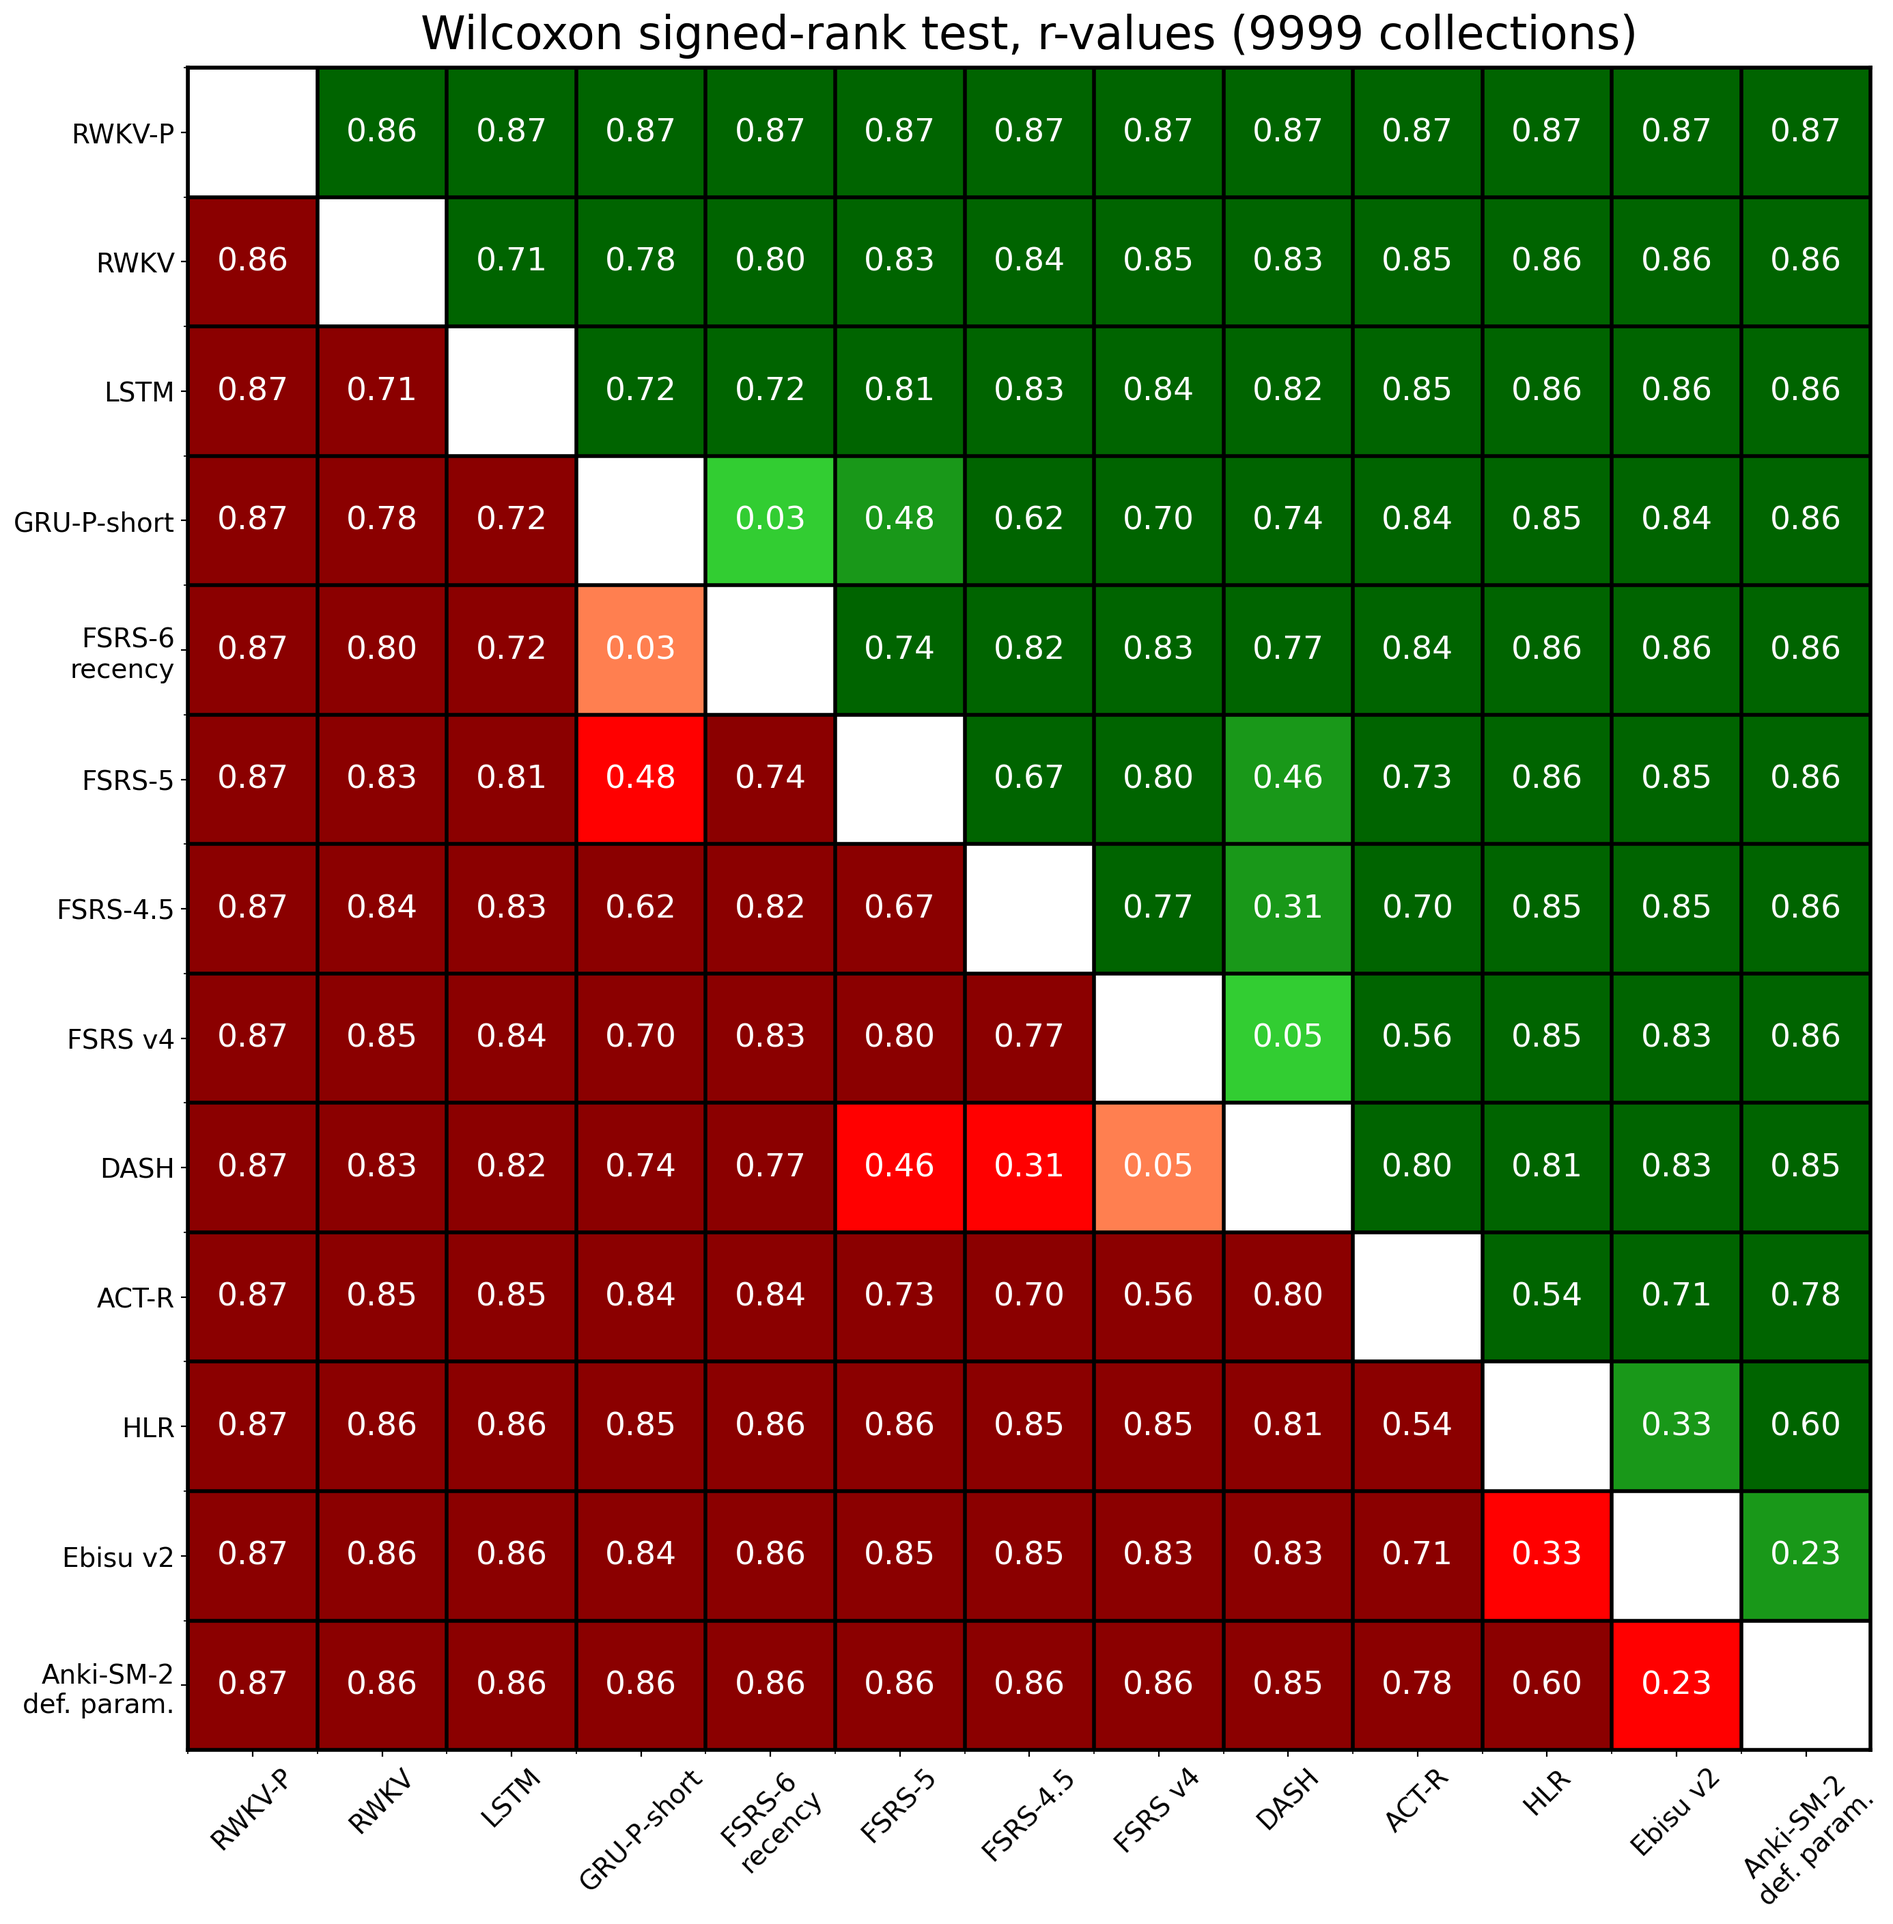
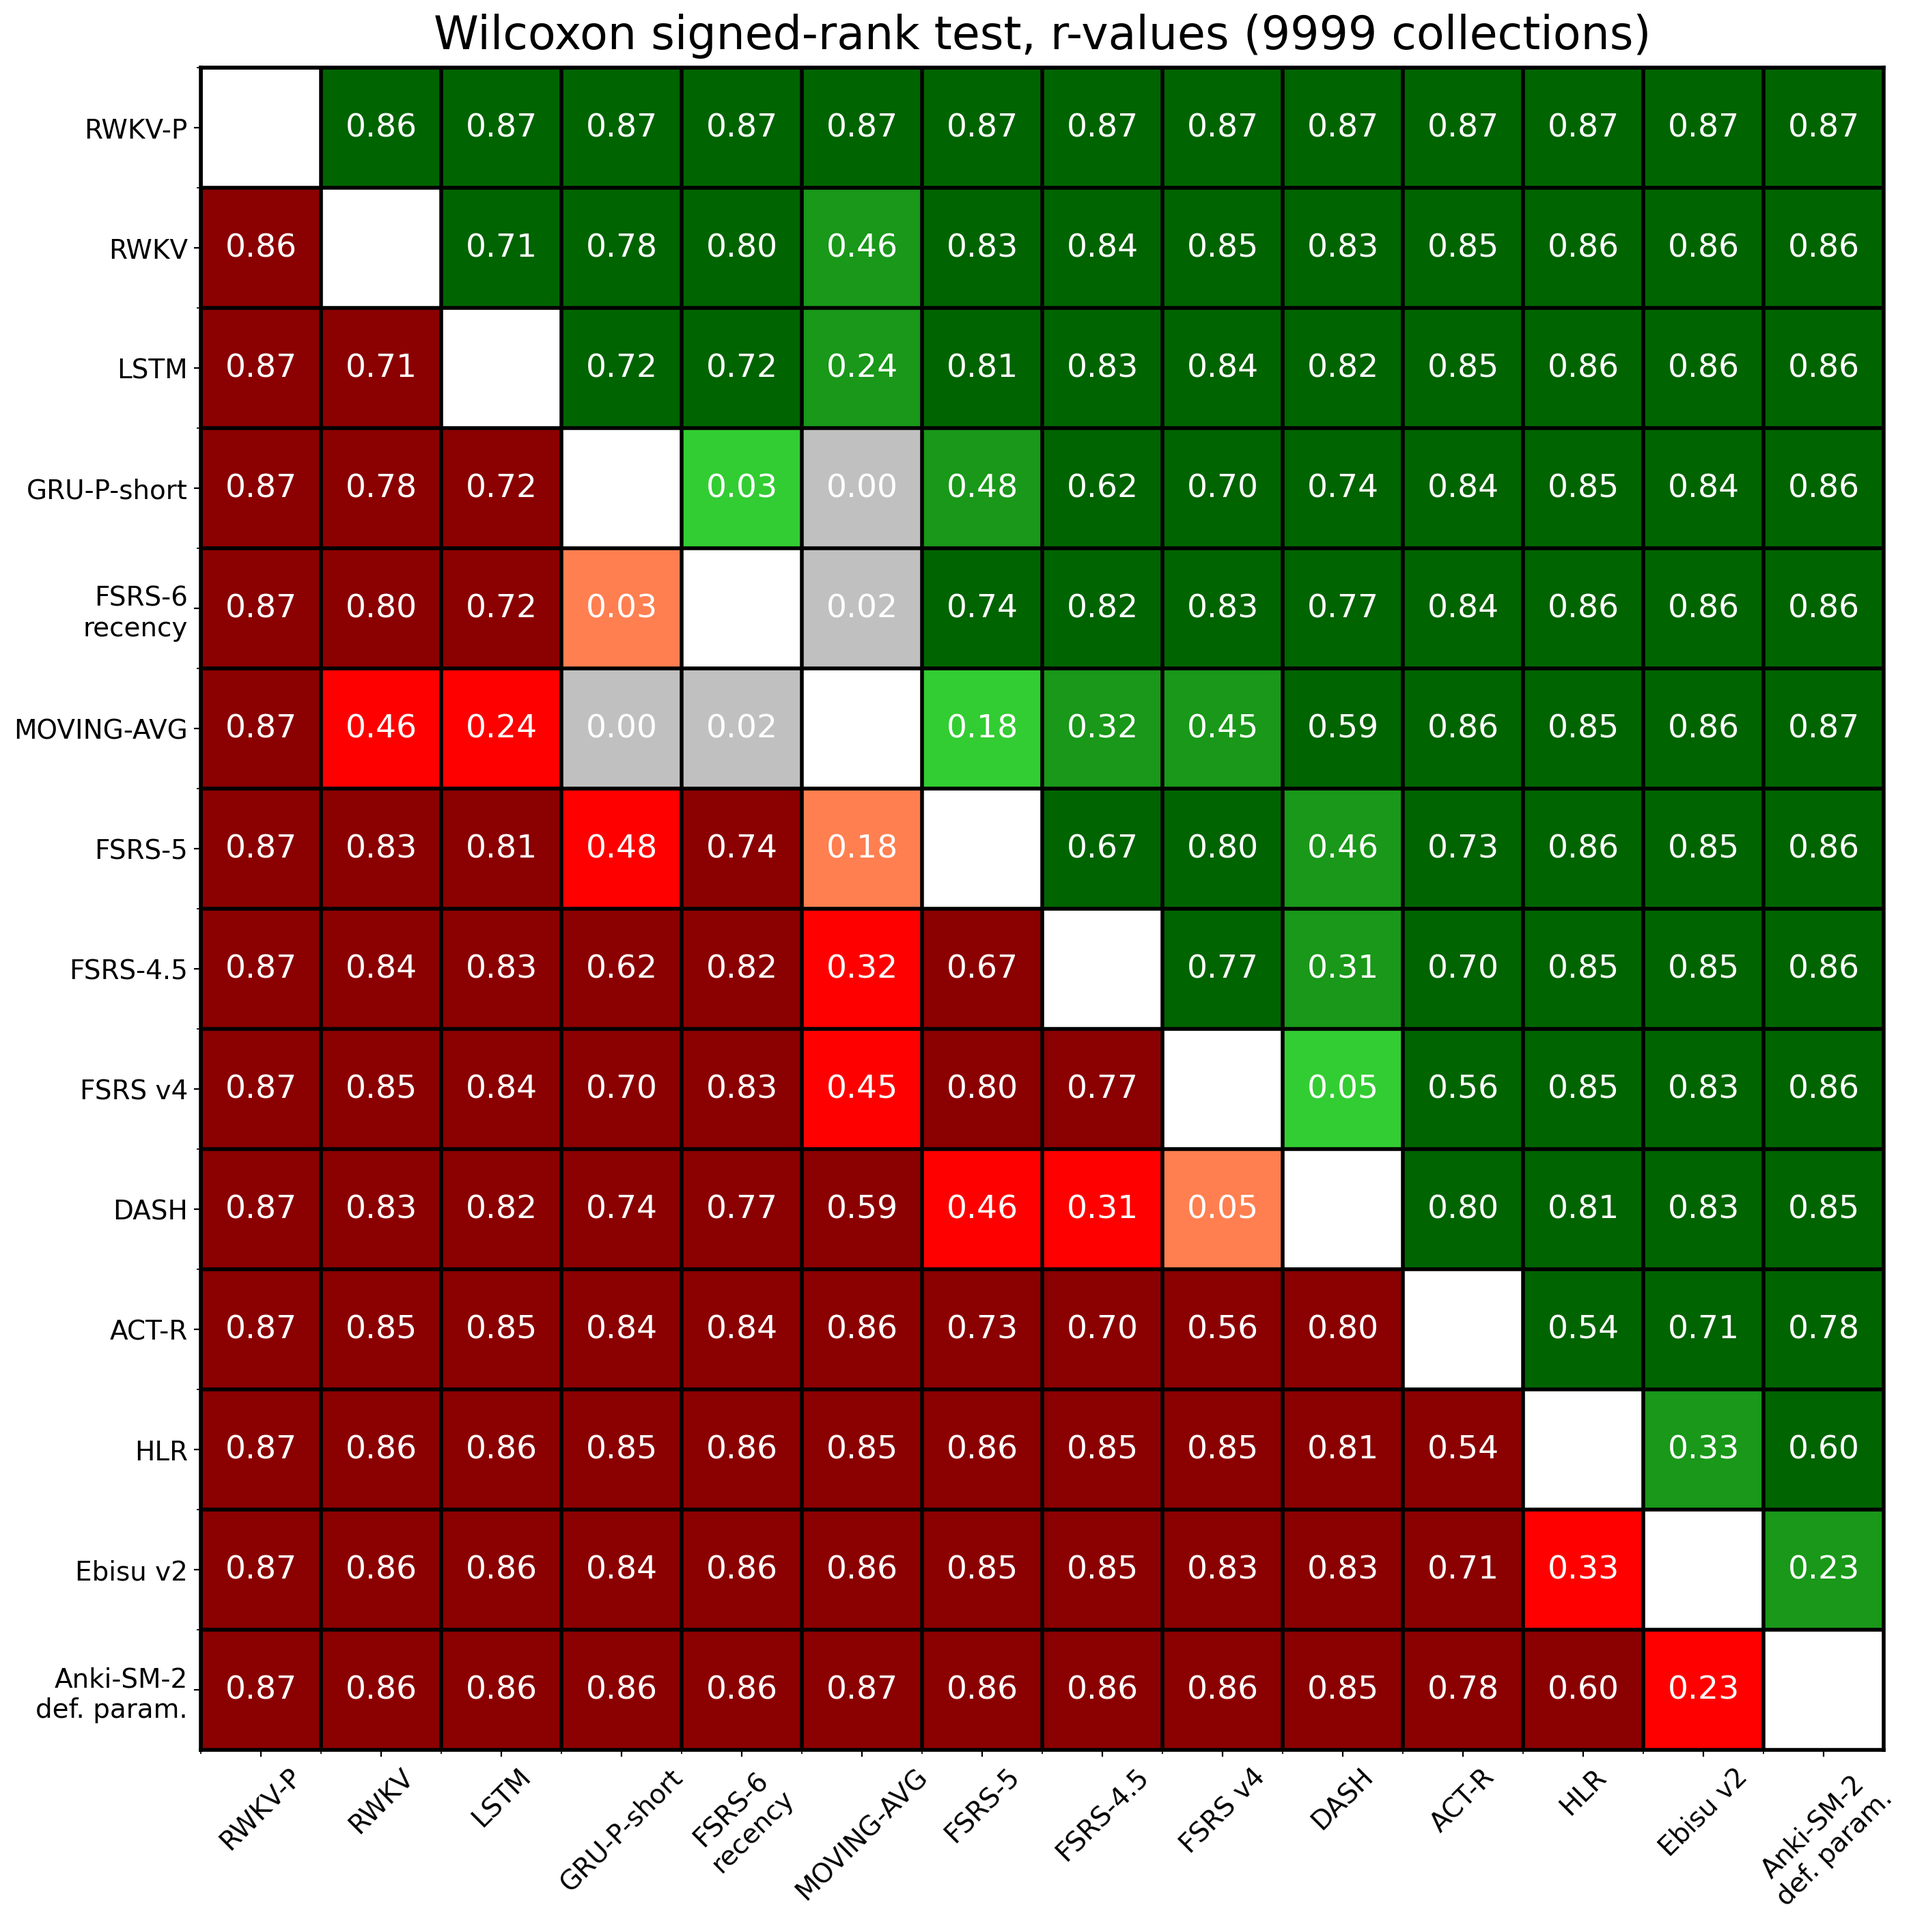
update metrics table

diff --git a/evaluate.py b/evaluate.py
@@ -106,10 +106,11 @@ if __name__ == "__main__":
             ("RWKV-P", 2762884, ""),
             ("RWKV", 2762884, ""),
             ("LSTM-short-secs-equalize_test_with_non_secs", 8869, "FIL, G, SR, AT"),
-            ("GRU-P-short", 297, "IL, G, SR"),
+            ("MOVING-AVG", 0, "---"),
             ("FSRS-6-recency", 21, "IL, G, SR"),
             ("FSRS-rs", 21, "IL, G, SR"),
             ("FSRS-6", 21, "IL, G, SR"),
+            ("GRU-P-short", 297, "IL, G, SR"),
             ("FSRS-6-preset", 21, "IL, G, SR"),
             ("GRU-P", 297, "IL, G"),
             ("FSRS-6-binary", 17, "IL, G, SR"),
@@ -144,8 +145,8 @@ if __name__ == "__main__":
         if not args.secs
         else [
             (dev_mode_name, None, None),
-            ("GRU-P-short-secs", 297, "FIL, G, SR"),
             ("MOVING-AVG-short-secs", 0, "---"),
+            ("GRU-P-short-secs", 297, "FIL, G, SR"),
             ("DASH[MCM]-short-secs", 9, "FIL, G, SR"),
             ("DASH-short-secs", 9, "FIL, G, SR"),
             ("DASH[ACT-R]-short-secs", 5, "FIL, G, SR"),
@@ -214,7 +215,7 @@ if __name__ == "__main__":
                 # print(f"parameters: {np.std(parameters, axis=0).round(2).tolist()}\n")
 
     else:
-        for scale in ("reviews", "users"):
+        for scale in ("users", "reviews"):
             print(f"Weighted by number of {scale}\n")
             print("| Model | #Params | LogLoss | RMSE(bins) | AUC | Input features |")
             print("| --- | --- | --- | --- | --- | --- |")

diff --git a/significance_table_small.py b/significance_table_small.py
@@ -58,6 +58,7 @@ if __name__ == "__main__":
         "LSTM-short-secs-equalize_test_with_non_secs",
         "GRU-P-short",
         "FSRS-6-recency",
+        "MOVING-AVG",
         "FSRS-5",
         "FSRS-4.5",
         "FSRSv4",

diff --git a/superiority_small.py b/superiority_small.py
@@ -16,6 +16,7 @@ if __name__ == "__main__":
         "LSTM-short-secs-equalize_test_with_non_secs",
         "GRU-P-short",
         "FSRS-6-recency",
+        "MOVING-AVG",
         "FSRS-5",
         "FSRS-4.5",
         "FSRSv4",

diff --git a/README.md b/README.md
@@ -98,53 +98,14 @@ For the sake of brevity, the following abbreviations are used in the "Input feat
 
 **AT** = **a**nswer **t**ime (duration of the review), in milliseconds
 
-### Weighted by the number of reviews
-
-| Algorithm | Parameters | Log Loss↓ | RMSE (bins)↓ | AUC↑ | Input features |
-| --- | --- | --- | --- | --- | --- |
-| **RWKV-P** | 2762884 [(0)](#param-note) | **0.2709±0.0074** | 0.01450±0.00037 | **0.8233±0.0040** | [Yes](#features-note) |
-| RWKV | 2762884 [(0)](#param-note) | 0.2991±0.0075 | 0.0341±0.0012 | 0.7699±0.0032 | [Yes](#features-note) |
-| LSTM | 8869 | 0.3115±0.0079 | 0.0354±0.0011 | 0.7332±0.0038 | FIL, G, SR, AT |
-| GRU-P-short | 297 | 0.3195±0.0080 | 0.0421±0.0013 | 0.7096±0.0047 | IL, G, SR|
-| FSRS-6 recency | 21 | 0.3197±0.0080 | 0.0435±0.0012 | 0.7088±0.0042 | IL, G, SR |
-| FSRS-rs | 21 | 0.3197±0.0080 | 0.0435±0.0012 | 0.7090±0.0042 | IL, G, SR |
-| FSRS-6 | 21 | 0.3214±0.0081 | 0.0462±0.0013 | 0.7060±0.0041 | IL, G, SR |
-| FSRS-6 preset | 21 | 0.3215±0.0080 | 0.0454±0.0013 | 0.7067±0.0041 | IL, G, SR |
-| GRU-P | 297 | 0.3251±0.0082 | 0.0433±0.0013 | 0.6991±0.0046 | IL, G |
-| FSRS-6 binary | 17 | 0.3256±0.0082 | 0.0484±0.0014 | 0.6866±0.0046 | IL, G, SR |
-| FSRS-5 | 19 | 0.3273±0.0082 | 0.0518±0.0016 | 0.7025±0.0041 | IL, G, SR |
-| FSRS-6 deck | 21 | 0.3277±0.0082 | 0.0509±0.0016 | 0.6974±0.0042 | IL, G, SR |
-| FSRS-4.5 | 17 | 0.3324±0.0084 | 0.0536±0.0016 | 0.6918±0.0041 | IL, G |
-| FSRS-6 pretrain | 4 | 0.3327±0.0079 | 0.0632±0.0017 | 0.6945±0.0040 | IL, G, SR |
-| FSRS v4 | 17 | 0.3378±0.0086 | 0.0582±0.0017 | 0.6891±0.0043 | IL, G |
-| FSRS-6 default param. | 0 | 0.3393±0.0082 | 0.0716±0.0020 | 0.6891±0.0041 | IL, G, SR |
-| DASH-short | 9 | 0.3395±0.0084 | 0.0660±0.0018 | 0.6355±0.0049 | IL, G, SR |
-| DASH | 9 | 0.3398±0.0083 | 0.0627±0.0016 | 0.6386±0.0047 | IL, G |
-| DASH[MCM] | 9 | 0.3399±0.0083 | 0.0644±0.0017 | 0.6398±0.0052 | IL, G |
-| DASH[ACT-R] | 5 | 0.3428±0.0084 | 0.0670±0.0019 | 0.6294±0.0049 | IL, G |
-| GRU | 39 | 0.3430±0.0086 | 0.0631±0.0017 | 0.6726±0.0039 | IL, G |
-| ACT-R | 5 | 0.3623±0.0092 | 0.0864±0.0024 | 0.5345±0.0054 | IL |
-| AVG | 0 | 0.3630±0.0091 | 0.0876±0.0026 | 0.5085±0.0049 | --- |
-| FSRS v3 | 13 | 0.3709±0.0099 | 0.0729±0.0022 | 0.6666±0.0045 | IL, G |
-| FSRS v2 | 14 | 0.377±0.010 | 0.0687±0.0022 | 0.6669±0.0048 | IL, G |
-| FSRS v1 | 7 | 0.397±0.011 | 0.0864±0.0025 | 0.6333±0.0046 | IL, G |
-| Anki-SM-2 trainable | 7 | 0.407±0.011 | 0.0941±0.0032 | 0.6169±0.0044 | IL, G |
-| HLR | 3 | 0.415±0.012 | 0.1052±0.0031 | 0.6333±0.0050 | IL, G |
-| HLR-short | 3 | 0.436±0.013 | 0.1160±0.0036 | 0.6149±0.0064 | IL, G, SR |
-| SM-2 trainable | 6 | 0.444±0.012 | 0.1193±0.0034 | 0.5994±0.0049 | IL, G |
-| Ebisu v2 | 0 | 0.457±0.012 | 0.1582±0.0039 | 0.5942±0.0050 | IL, G |
-| Anki-SM-2 | 0 | 0.490±0.015 | 0.1278±0.0036 | 0.5973±0.0054 | IL, G |
-| SM-2-short | 0 | 0.511±0.016 | 0.1278±0.0038 | 0.5929±0.0065 | IL, G, SR |
-| SM-2 | 0 | 0.547±0.017 | 0.1484±0.0042 | 0.6005±0.0051 | IL, G |
-| **RMSE-BINS-EXPLOIT** | 0 | 4.48±0.13 | **0.00623±0.00021** | 0.6380±0.0040 | IL, G |
-
-### Unweighted
+### Without same-day reviews
 
 | Algorithm | Parameters | Log Loss↓ | RMSE (bins)↓ | AUC↑ | Input features |
 | --- | --- | --- | --- | --- | --- |
 | **RWKV-P** | 2762884 | **0.2773±0.0036** | 0.02502±0.00038 | **0.8329±0.0017** | [Yes](#features-note) |
 | RWKV | 2762884 | 0.3193±0.0039 | 0.0540±0.0010 | 0.7683±0.0020 | [Yes](#features-note) |
 | LSTM | 8869 | 0.3332±0.0041 | 0.05378±0.00096 | 0.7329±0.0020 | FIL, G, SR, AT |
+| MOVING-AVG | 0 | 0.3369±0.0042 | 0.05915±0.00082 | 0.7001±0.0026 | --- |
 | FSRS-6 recency | 21 | 0.3439±0.0042 | 0.0629±0.0010 | 0.7075±0.0022 | IL, G, SR |
 | FSRS-rs | 21 | 0.3437±0.0042 | 0.0628±0.0010 | 0.7080±0.0022 | IL, G, SR |
 | FSRS-6 | 21 | 0.3456±0.0042 | 0.0653±0.0011 | 0.7051±0.0023 | IL, G, SR |
@@ -178,9 +139,28 @@ For the sake of brevity, the following abbreviations are used in the "Input feat
 | SM-2 | 0 | 0.722±0.017 | 0.2031±0.0031 | 0.6026±0.0025 | IL, G |
 | **RMSE-BINS-EXPLOIT** | 0 | 4.608±0.067 | **0.01350±0.00027** | 0.6548±0.0022 | IL, G |
 
-Averages weighted by the number of reviews are more representative of "best case" performance when plenty of data is available. Since almost all algorithms perform better when there's a lot of data to learn from, weighting by n(reviews) biases the average towards lower values.
+### With same-day reviews
 
-Unweighted averages are more representative of "average case" performance. In reality, not every user will have hundreds of thousands of reviews, so the algorithm won't always be able to reach its full potential.
+| Model | #Params | LogLoss | RMSE(bins) | AUC | Input features |
+| --- | --- | --- | --- | --- | --- |
+| MOVING-AVG-short-secs | 0 | 0.3301±0.0044 | 0.0789±0.0010 | 0.7077±0.0024 | --- |
+| GRU-P-short-secs | 297 | 0.3487±0.0040 | 0.0838±0.0011 | 0.6457±0.0033 | FIL, G, SR |
+| DASH[MCM]-short-secs | 9 | 0.3459±0.0042 | 0.0884±0.0011 | 0.6663±0.0025 | FIL, G, SR |
+| DASH-short-secs | 9 | 0.3487±0.0041 | 0.0885±0.0011 | 0.6533±0.0027 | FIL, G, SR |
+| DASH[ACT-R]-short-secs | 5 | 0.3763±0.0045 | 0.1161±0.0014 | 0.5576±0.0030 | FIL, G, SR |
+| NN-17-short-secs | 39 | 0.4215±0.0041 | 0.1389±0.0018 | 0.5763±0.0026 | FIL, G, SR |
+| FSRS-6-secs-recency | 21 | 0.3853±0.0050 | 0.1018±0.0015 | 0.6810±0.0021 | FIL, G, SR |
+| FSRS-6-secs | 21 | 0.3873±0.0050 | 0.1048±0.0015 | 0.6790±0.0021 | FIL, G, SR |
+| AVG-short-secs | 0 | 0.3816±0.0048 | 0.1195±0.0017 | 0.5006±0.0024 | --- |
+| ACT-R-short-secs | 5 | 0.3898±0.0049 | 0.1240±0.0017 | 0.5174±0.0028 | FIL, G, SR |
+| FSRS-4.5-short-secs | 17 | 0.3976±0.0051 | 0.1023±0.0013 | 0.7055±0.0020 | FIL, G, SR |
+| FSRSv4-short-secs | 17 | 0.4419±0.0060 | 0.1119±0.0014 | 0.6953±0.0021 | FIL, G, SR |
+| FSRS-5-secs | 19 | 0.4658±0.0070 | 0.1189±0.0017 | 0.6707±0.0022 | FIL, G, SR |
+| GRU-short-secs | 39 | 0.590±0.010 | 0.1846±0.0027 | 0.5984±0.0031 | FIL, G, SR |
+| HLR-short-secs | 3 | 0.705±0.014 | 0.1715±0.0024 | 0.6104±0.0028 | FIL, G, SR |
+| Anki-short-secs | 7 | 0.794±0.018 | 0.1721±0.0028 | 0.5808±0.0030 | FIL, G, SR |
+| SM2-trainable-short-secs | 6 | 0.824±0.017 | 0.2017±0.0028 | 0.5641±0.0029 | FIL, G, SR |
+| SM2-short-secs | 0 | 0.910±0.021 | 0.1999±0.0029 | 0.5715±0.0029 | FIL, G, SR |
 
 ### Superiority
 
